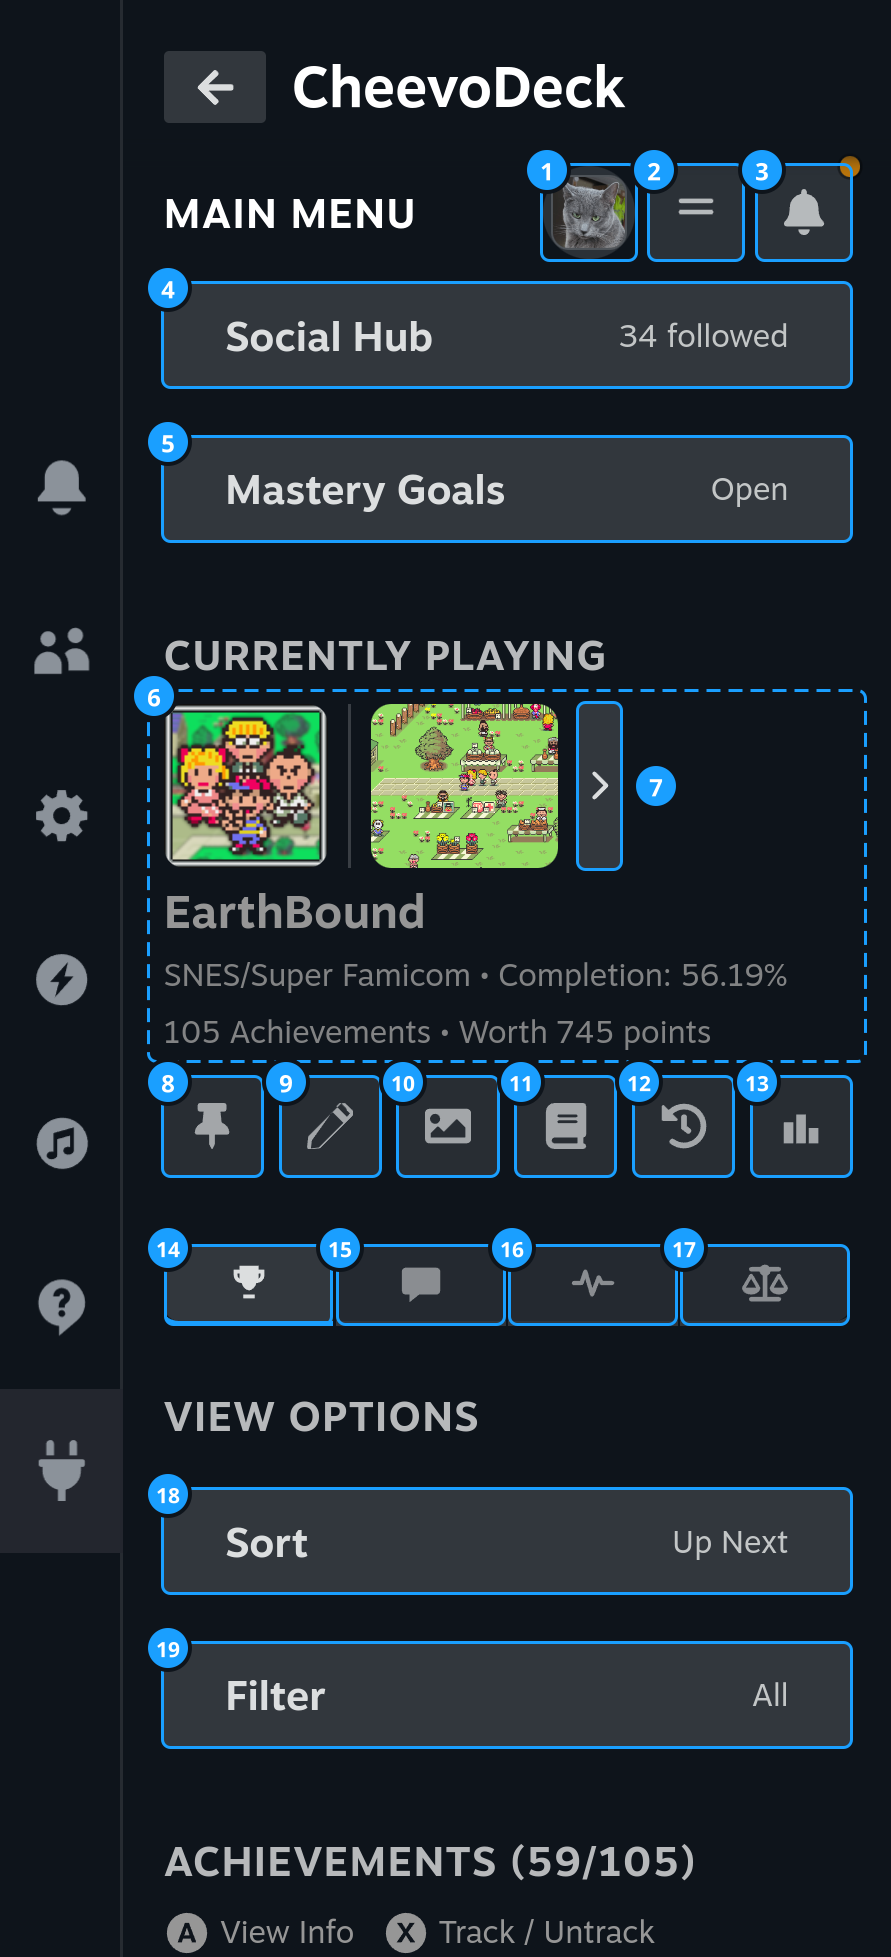
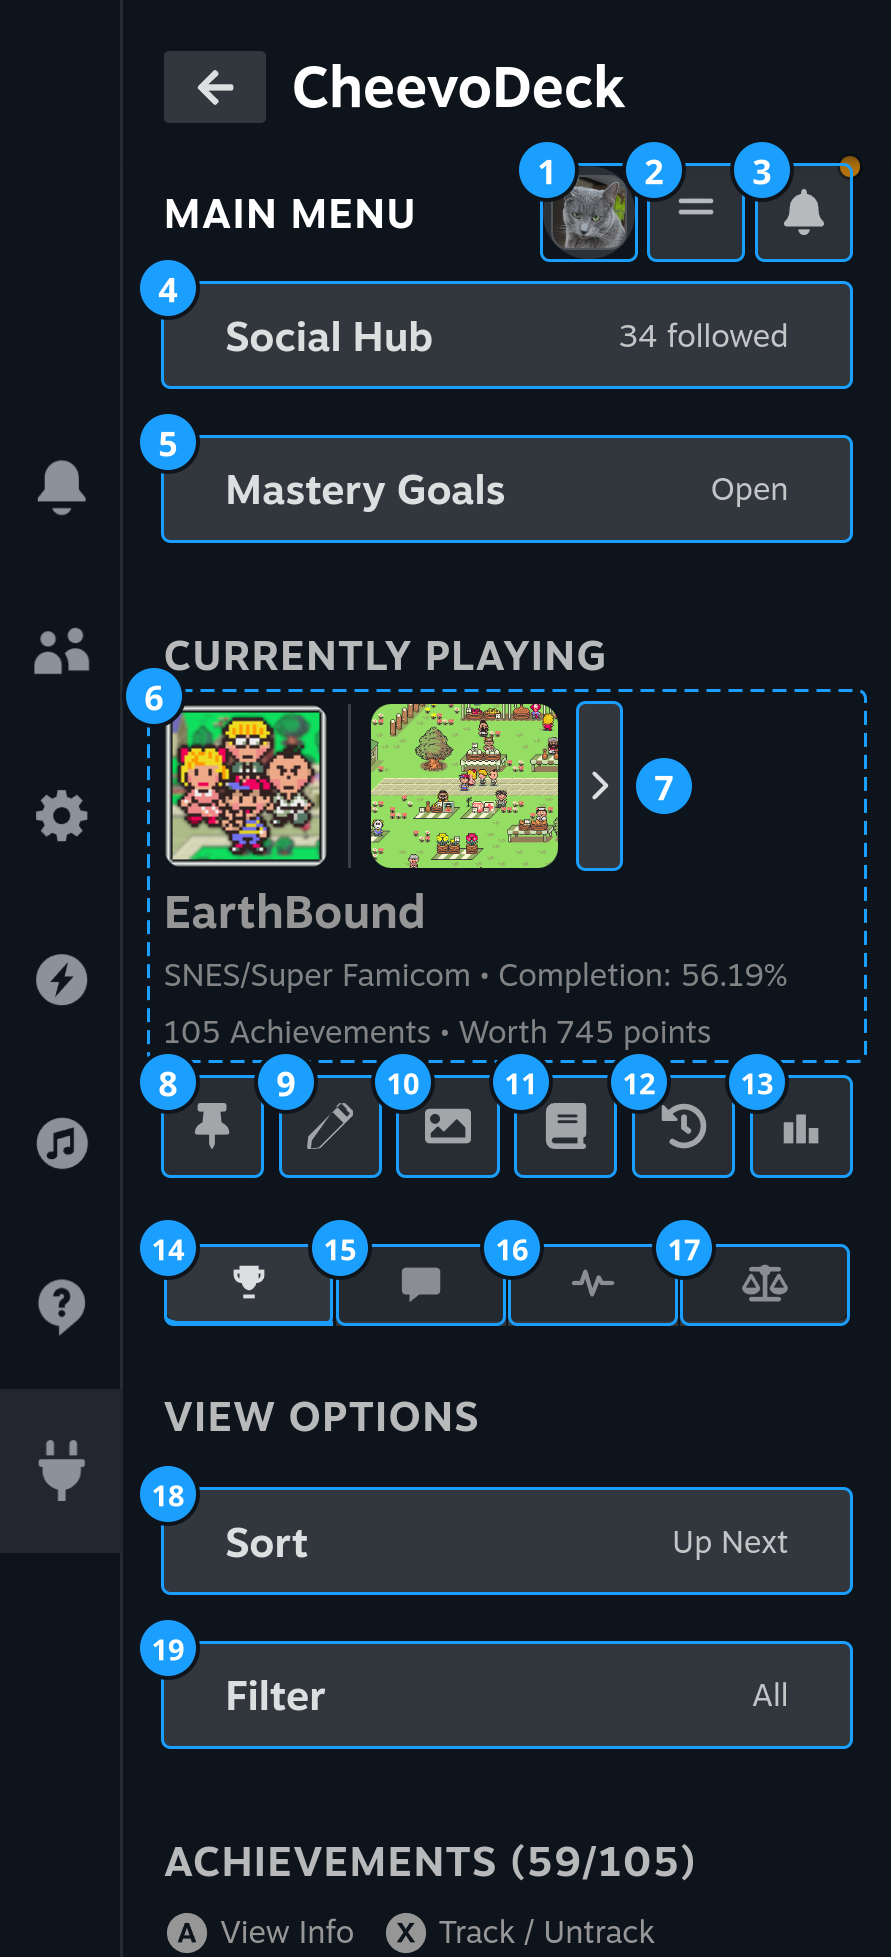
Docs: Add a Main Menu Tour to the README

diff --git a/README.md b/README.md
@@ -9,6 +9,7 @@ A full RetroAchievements tracking and management system inside the Quick Access 
 - [Requirements](#requirements)
 - [Installation](#installation)
 - [Getting Started](#getting-started)
+- [Main Menu Tour](#main-menu-tour)
 - [Quick Start Tips](#quick-start-tips)
 - [Tutorials](#tutorials)
 - [Updating CheevoDeck](#updating-cheevodeck)
@@ -265,6 +266,50 @@ An example of Steam library badges in action.
     3. Enjoy!
 
 If nothing is loaded, make sure you are logged into your RA account in your emulator or front-end. Also, make sure your current game is supported on RetroAchievements and is a valid dump. If the game's hash differs from what RA has, it is not supported.
+
+## Main Menu Tour
+
+<a href="docs/images/main-menu-tour.webp"><img src="docs/images/main-menu-tour.webp" width="420"></a>
+
+Welcome to the **Main Menu** tour! Here, you will find a brief overview of the features and buttons:
+
+1. **Profile Button** — Brings you to your [profile page](docs/tutorials/profile.md), containing your various stats, game lists, activity, wall, and much more.
+
+2. **Quick Menu** — The central hub to find quick shortcuts to almost any page within CheevoDeck. See more about this by reading [The Quick Menu](#the-quick-menu) section under [Quick Start Tips](#quick-start-tips).
+
+3. **Notifications Bell** — Found on every page, if you select it, this brings you to your notifications feed. If you see an orange dot in the corner, it means you have a new notification.
+
+4. **Social Hub Button** — Depending on if you chose the [**Default View** or **Compact View**](#customize-your-experience) preset, this may or may not be here. Either way, it can also be accessed via the [**Quick Menu**](#the-quick-menu). The [Social Hub page](docs/tutorials.md#social-hub) contains all of the social stuff, such as your friends list, feeds, news, events, subscribed discussions, saved comments, new sets & revisions, and more.
+
+5. **Mastery Goals Button** — Shown in [**Default View**](#customize-your-experience) only. Otherwise, can be accessed via [**Quick Menu**](#the-quick-menu). The [Mastery Goals page](docs/tutorials/mastery-goals.md) will allow you to make unique and specific goals for completion or mastery, view the progress, as well as info for each game in your list. This goal could be anything. It could be "Zelda Games", "Xeno-Style Games", "My Childhood Games", "Cool JRPGs", or even "Barbie Games". The customizations and possibilities are endless. And the best part is, once you make a goal, progress is tracked for the set of games as a whole.
+
+6. **Currently Loaded Game** — This shows your currently loaded game, along with some basic information under it.
+
+7. **Game Overview Button** — Selecting this will open the [Game Info page](docs/tutorials/game-info.md), showing you extended information for this game, such as more pictures, links to videos, publisher, year, patch downloads, MD5 checksums, and more.
+
+8. **Tracked Page Button** — The [Tracked Page](docs/tutorials/tracked-achievements.md) is a special page where your tracked achievements end up when you track achievements for your current game on the main page with **X** (or whatever the equivalent is for your controller).
+
+9. **Notes Page Button** — This brings you to the [Notes page](docs/tutorials/notes.md) where you can make special notes, goals, and reminders for your current game.
+
+10. **Memories Page Button** — This brings you to the [Memories page](docs/tutorials/memories.md) where you can find your memories album for the current game. You can also view other games' memories here as well.
+
+11. **Guides Page Button** — The [Guides page](docs/tutorials/guides.md) allows you to view and read GameFAQs guides for your current game.
+
+12. **Unlock History Button** — This opens up the [Unlocks page](docs/tutorials/unlock-history.md) that shows your unlock history for the current game.
+
+13. **Leaderboards Button** — Opens up the [Leaderboards page](docs/tutorials/leaderboards-list.md), showing all of the latest leaderboards for the currently loaded game.
+
+14. **Achievements Tab** — This tab is the main tab you will be using most often. It shows the achievements list for the currently loaded game.
+
+15. **Comments Tab** — Selecting this tab shows comments for the current game below, where you can view, save, subscribe, and post comments.
+
+16. **Activity Tab** — Shows social activity below it, starting with the **Players Near You** (PNY) feature, which shows other players who are near your progress based on which PNY mode you choose for the current game.
+
+17. **Compare Tab** — Allows you to compare your stats for the current game against a friend's stats, just like the [Compare page](docs/tutorials/compare-achievements.md).
+
+18. **Sort Toggle** — Press **A** (or whatever equivalent is on your controller) to toggle between different sort modes for your achievements under the achievements tab.
+
+19. **Filter Toggle** — Press **A** (or whatever equivalent is on your controller) to toggle different filters for your achievements under the achievements tab, such as filtering only by **Missable**.
 
 ## Quick Start Tips
 
